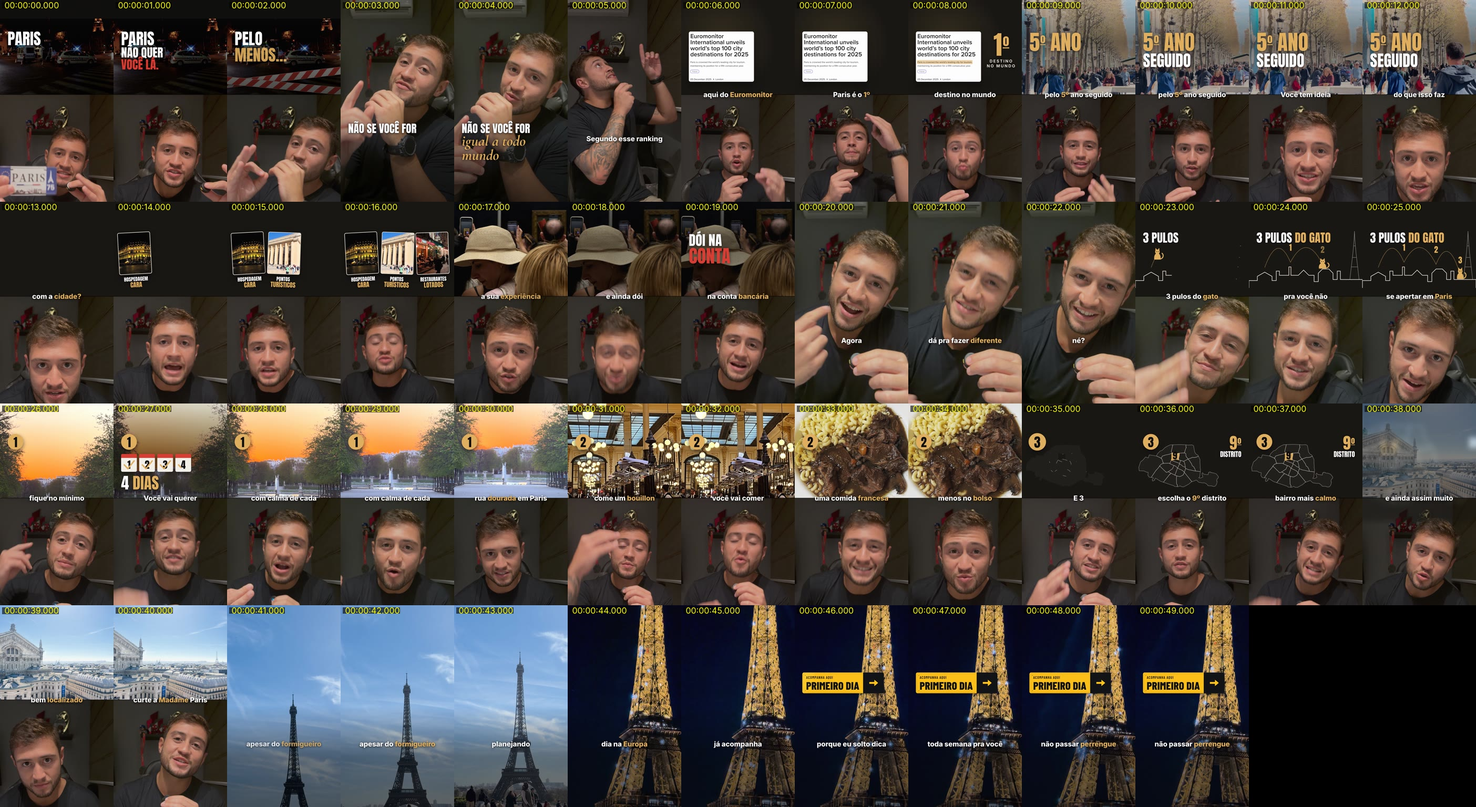
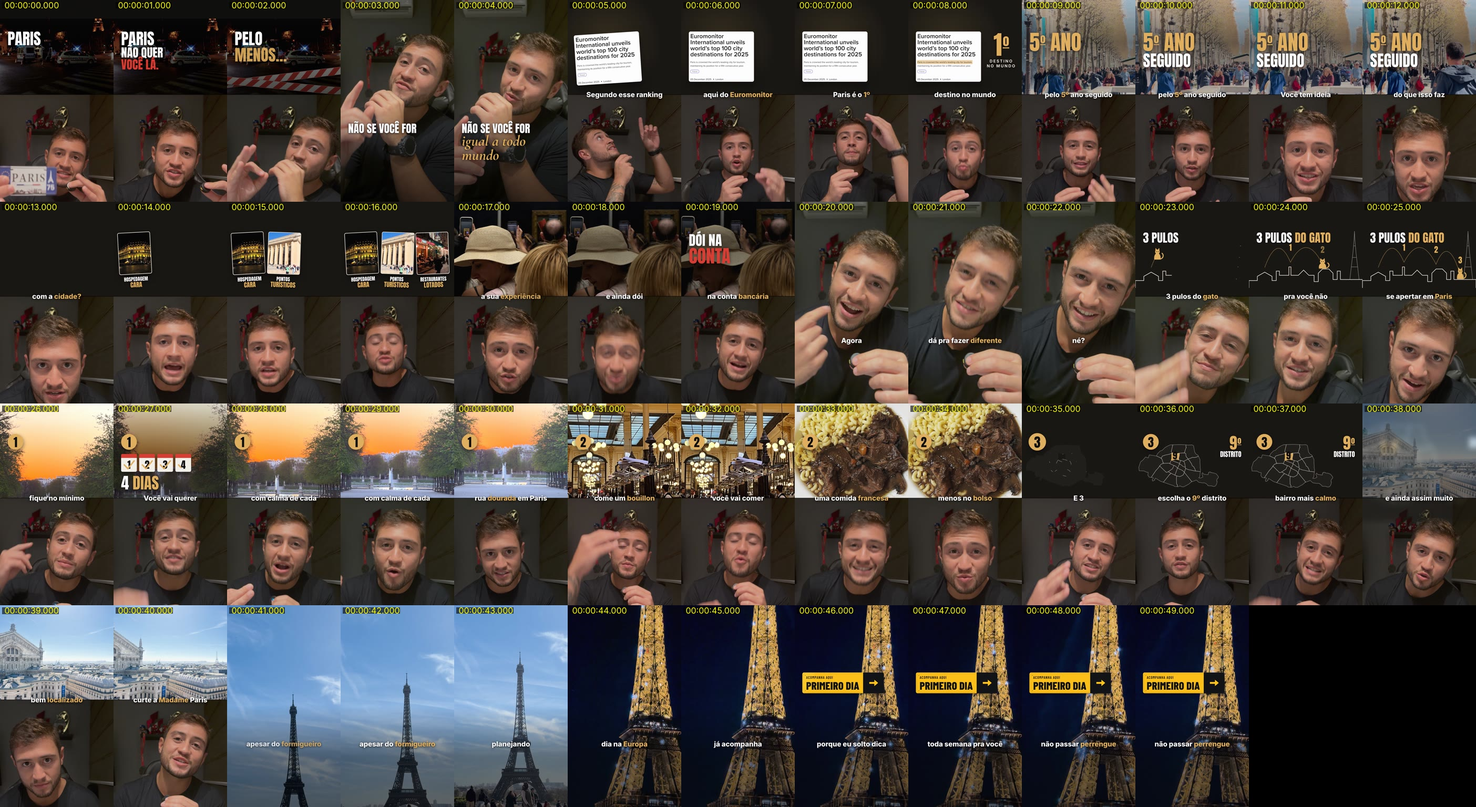
Reel Paris REV1: render final (print cai no gesto), folhas de QA e medições
Claude-Session: https://claude.ai/code/session_01TJN9ntLfP9CYYQPXPcvgx7

Changed region(s): [[0.3718, 0.0, 0.4647, 0.25]]

diff --git a/reels/paris-formigueiro/rev1/QA_REV1.md b/reels/paris-formigueiro/rev1/QA_REV1.md
@@ -83,7 +83,21 @@ As 10 falas ficam dentro de 0,9 LU. **A tomada do ranking (IMG_7845) é diferent
 
 ## 5. Medições
 
-(preenchido depois do render, abaixo)
+| # | Ponto | Resultado |
+|---|---|---|
+| 1 | Duração | 50,33 s (voz 49,33 s + 1 s de cauda no CTA) |
+| 2 | Formato | 1080 × 1920, 30 qps, H.264 CRF 10 (≈ 57 Mb/s), AAC 320 kb/s 48 kHz |
+| 3 | Tempo na tela | Todas as cenas ≥ 3 s, menos as 2 exceções do gancho pedidas pelo Diego (2,70 s e 2,53 s) |
+| 4 | Planos do acervo | Nenhum corte de cena dentro dos 6 planos (detecção `scene > 0,25`); nenhum esticado; trechos dentro da duração limpa de cada arquivo |
+| 5 | Legendas | 1 linha, ≤ 4 palavras, largura medida pela fonte ≤ 800 px, centradas em x 540 |
+| 6 | Imagem na palavra | Todas as trocas ancoradas em palavra (`cenas.json`), de 0,05 a 0,3 s antes |
+| 7 | Pessoas | Nenhum apoio com o rosto do Diego ou da Marina (IMG_3023, com a Marina, ficou de fora) |
+| 9 | Áudio | **−14,0 LUFS** integrados, LRA 2,6 LU, pico verdadeiro **−1,5 dBTP**, 0 amostras acima de −1 dBFS, 0 em 0 dBFS |
+| 11 | Transcrição da voz final | Whisper large-v3 no vídeo final repete a fala gravada. Palavras com confiança < 0,6: "você" (27,3 s), "o nono" (ouvido "uma no", 35,8 s), "Madame" (40,6 s), "está", "o", "porque", "pra". Nenhuma palavra cortada |
+| 12 | Nada na tela fora da fala | Textos na tela: PARIS / NÃO QUER / VOCÊ LÁ, PELO MENOS, NÃO SE VOCÊ FOR / igual a todo mundo, 1º DESTINO NO MUNDO, 5º ANO SEGUIDO, HOSPEDAGEM CARA / PONTOS TURÍSTICOS / RESTAURANTES LOTADOS, DÓI NA CONTA, 3 PULOS DO GATO, 1 / 2 / 3, 4 DIAS, 9º DISTRITO, ACOMPANHA AQUI / PRIMEIRO DIA. Todos ditos |
+| 13 | Créditos | `creditos.md` e `imagens/creditos/` |
+
+Folhas: `qa_frames/folha_1s.jpg` (1 quadro por segundo) e `qa_frames/queda_do_print.jpg` (o print cai enquanto o Diego aponta, 5,1–6,1 s, 10 qps).
 
 ## 6. Arquivos
 
